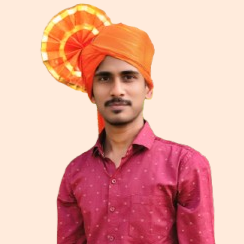
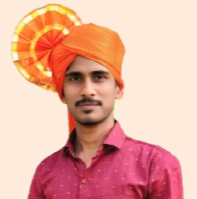
finalized

diff --git a/about.html b/about.html
@@ -121,17 +121,17 @@
 
     <section class="team">
       <div class="team-member">
-        <img src="https://via.placeholder.com/100" alt="Team Member">
+        <img src="./images/Jai.jpg" alt="Team Member">
         <h3>Jaydeep Dhumal</h3>
         <p>TE A (29)<br>Team Leader and Project Manager</p>
       </div>
       <div class="team-member">
-        <img src="https://via.placeholder.com/100" alt="Team Member">
+        <img src="./images/Anushka.jpg" alt="Team Member">
         <h3>Anushka Sonawane</h3>
-        <p>TE C (45)<br>Backend developer</p>
+        <p>TE C (31)<br>Backend developer</p>
       </div>
       <div class="team-member">
-        <img src="https://via.placeholder.com/100" alt="Team Member">
+        <img src="./images/Rohit.jpg" alt="Team Member">
         <h3>Rohit Gaikwad</h3>
         <p>TE A (55)<br>Database Manager</p>
       </div>
@@ -141,12 +141,12 @@
         <p>TE A (45)<br>Frontend Developer</p>
       </div>
       <div class="team-member">
-        <img src="https://via.placeholder.com/100" alt="Team Member">
+        <img src="./images/varad.jpg" alt="Team Member">
         <h3>Varad Kalme</h3>
         <p>TE B (45)<br>Frontend Developer</p>
       </div>
       <div class="team-member">
-        <img src="https://via.placeholder.com/100" alt="Team Member">
+        <img src="./images/ayush.jpg" alt="Team Member">
         <h3>Ayush Suryawanshi</h3>
         <p>TE A (47)<br>Project Manager</p>
       </div>

diff --git a/web pages/registration.html b/web pages/registration.html
@@ -14,7 +14,7 @@
 
     body {
       font-family: Arial, sans-serif;
-      background: #f9f9f9;
+      background-image :url(../images/hositalbg2.png);
       display: flex;
       justify-content: center;
       align-items: center;
